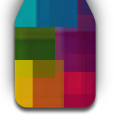
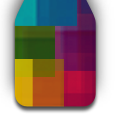
Updated time section

diff --git a/Soclivity/StyledPullableView.m b/Soclivity/StyledPullableView.m
@@ -64,7 +64,7 @@
         SOC=[SoclivityManager SharedInstance];                     
         filterPaneView=[[UIView alloc]initWithFrame:CGRectMake(0, 0, 640, 402)];
         filterPaneView.backgroundColor=[SoclivityUtilities returnTextFontColor:7];
-        self.homeSearchBar = [[[UISearchBar alloc] initWithFrame:CGRectMake(0, 40,320, 44)] autorelease];
+        self.homeSearchBar = [[[UISearchBar alloc] initWithFrame:CGRectMake(0, 40, 320, 44)] autorelease];
         self.homeSearchBar.delegate = self;
         self.homeSearchBar.showsCancelButton =NO;
         self.homeSearchBar.autocorrectionType = UITextAutocorrectionTypeNo;
@@ -323,7 +323,7 @@
         [datesVerticalDividerImageView2 release];
         
         UIButton *pickADayButton = [[UIButton buttonWithType:UIButtonTypeCustom] retain];
-        pickADayButton.frame = CGRectMake(214,238,100,40);
+        pickADayButton.frame = CGRectMake(214,238,100,45);
         pickADayButton.tag=kPickADay;
         [pickADayButton addTarget:self action:@selector(activityButtonPressed:) forControlEvents:UIControlEventTouchUpInside];
         [filterPaneView addSubview:pickADayButton];
@@ -347,47 +347,46 @@
         [filterPaneView addSubview:pickADayLabel];
         [pickADayLabel release];
         
-        
+        // Time selection section
         UIImageView *clockIconImageView=[[UIImageView alloc]initWithImage:[UIImage imageNamed:@"S04.1_clock.png"]];
-        clockIconImageView.frame=CGRectMake(10, 290, 24, 23);
+        clockIconImageView.frame=CGRectMake(10, 302, 24, 23);
         [filterPaneView addSubview:clockIconImageView];
         [clockIconImageView release];
         
         UIImageView *horizontalDividerImageView2=[[UIImageView alloc]initWithImage:[UIImage imageNamed:@"S04.1_horizontalDivider.png"]];
-        horizontalDividerImageView2.frame=CGRectMake(44, 300, 269, 2);
+        horizontalDividerImageView2.frame=CGRectMake(44, 309, 269, 1);
         [filterPaneView addSubview:horizontalDividerImageView2];
         [horizontalDividerImageView2 release];
         
-        
         UIButton *morningButton = [[UIButton buttonWithType:UIButtonTypeCustom] retain];
-        morningButton.frame =CGRectMake(45,325,90,41);
+        morningButton.frame =CGRectMake(12,330,100,55);
         morningButton.tag=kMorningButton;
         [morningButton addTarget:self action:@selector(activityButtonPressed:) forControlEvents:UIControlEventTouchUpInside];
         [filterPaneView addSubview:morningButton];
         
         UIImageView *sunriseImageView=[[UIImageView alloc]initWithImage:[UIImage imageNamed:@"S04.1_sunriseSelected.png"]];
-        sunriseImageView.frame=CGRectMake(60, 325, 15,9);
+        sunriseImageView.frame=CGRectMake(55, 330, 15,9);
         sunriseImageView.tag=kSunriseImage;
         [filterPaneView addSubview:sunriseImageView];
         [sunriseImageView release];
         
-        CGRect morningLabelRect=CGRectMake(45,345,90,15);
+        CGRect morningLabelRect=CGRectMake(12,345,100,15);
         UILabel *morningLabel=[[UILabel alloc] initWithFrame:morningLabelRect];
-        morningLabel.textAlignment=UITextAlignmentLeft;
+        morningLabel.textAlignment=UITextAlignmentCenter;
         morningLabel.text=[NSString stringWithFormat:@"Morning"];
         morningLabel.font=[UIFont fontWithName:@"Helvetica-Condensed-Bold" size:15];
-        morningLabel.textColor=[SoclivityUtilities returnTextFontColor:1];
+        morningLabel.textColor=[SoclivityUtilities returnTextFontColor:5];
         morningLabel.tag=kMorningText;
         morningLabel.backgroundColor=[UIColor clearColor];
         [filterPaneView addSubview:morningLabel];
         [morningLabel release];
         
-        CGRect Am12_Am11_LabelRect=CGRectMake(35,365,90,15);
+        CGRect Am12_Am11_LabelRect=CGRectMake(12,365,100,15);
         UILabel *Am12_Am11Label=[[UILabel alloc] initWithFrame:Am12_Am11_LabelRect];
-        Am12_Am11Label.textAlignment=UITextAlignmentLeft;
+        Am12_Am11Label.textAlignment=UITextAlignmentCenter;
         Am12_Am11Label.text=[NSString stringWithFormat:@"12am - 11am"];
         Am12_Am11Label.font=[UIFont fontWithName:@"Helvetica-Condensed" size:15];
-        Am12_Am11Label.textColor=[SoclivityUtilities returnTextFontColor:1];
+        Am12_Am11Label.textColor=[SoclivityUtilities returnTextFontColor:5];
         Am12_Am11Label.tag=kAm12_Am11;
         Am12_Am11Label.backgroundColor=[UIColor clearColor];
         [filterPaneView addSubview:Am12_Am11Label];
@@ -395,39 +394,39 @@
         
         
         UIImageView *timeVerticalDividerImageView1=[[UIImageView alloc]initWithImage:[UIImage imageNamed:@"S04.1_timeVerticalDivider.png"]];
-        timeVerticalDividerImageView1.frame=CGRectMake(120, 335, 2, 41);
+        timeVerticalDividerImageView1.frame=CGRectMake(112, 333, 1, 41);
         [filterPaneView addSubview:timeVerticalDividerImageView1];
         [timeVerticalDividerImageView1 release];
 
         UIButton *afternoonButton = [[UIButton buttonWithType:UIButtonTypeCustom] retain];
-        afternoonButton.frame =CGRectMake(140,325,90,53);
+        afternoonButton.frame =CGRectMake(113,330,100,55);
         afternoonButton.tag=kAfternoonButton;
         [afternoonButton addTarget:self action:@selector(activityButtonPressed:) forControlEvents:UIControlEventTouchUpInside];
         [filterPaneView addSubview:afternoonButton];
         
         UIImageView *sunSelectedImageView=[[UIImageView alloc]initWithImage:[UIImage imageNamed:@"S04.1_sunSelected.png"]];
-        sunSelectedImageView.frame=CGRectMake(155, 325, 16, 15);
+        sunSelectedImageView.frame=CGRectMake(155, 324, 16, 15);
         sunSelectedImageView.tag=kSunSelectedImage;
         [filterPaneView addSubview:sunSelectedImageView];
         [sunSelectedImageView release];
         
-        CGRect afternoonLabelRect=CGRectMake(140,345,90,15);
+        CGRect afternoonLabelRect=CGRectMake(113,345,100,15);
         UILabel *afternoonLabel=[[UILabel alloc] initWithFrame:afternoonLabelRect];
-        afternoonLabel.textAlignment=UITextAlignmentLeft;
+        afternoonLabel.textAlignment=UITextAlignmentCenter;
         afternoonLabel.text=[NSString stringWithFormat:@"Afternoon"];
         afternoonLabel.font=[UIFont fontWithName:@"Helvetica-Condensed-Bold" size:15];
-        afternoonLabel.textColor=[SoclivityUtilities returnTextFontColor:1];
+        afternoonLabel.textColor=[SoclivityUtilities returnTextFontColor:5];
         afternoonLabel.tag=kAfternoonText;
         afternoonLabel.backgroundColor=[UIColor clearColor];
         [filterPaneView addSubview:afternoonLabel];
         [afternoonLabel release];
         
-        CGRect Pm12_Pm6_LabelRect=CGRectMake(130,365,90,15);
+        CGRect Pm12_Pm6_LabelRect=CGRectMake(113,365,100,15);
         UILabel *Pm12_Pm6_Label=[[UILabel alloc] initWithFrame:Pm12_Pm6_LabelRect];
-        Pm12_Pm6_Label.textAlignment=UITextAlignmentLeft;
+        Pm12_Pm6_Label.textAlignment=UITextAlignmentCenter;
         Pm12_Pm6_Label.text=[NSString stringWithFormat:@"12pm - 6pm"];
         Pm12_Pm6_Label.font=[UIFont fontWithName:@"Helvetica-Condensed" size:15];
-        Pm12_Pm6_Label.textColor=[SoclivityUtilities returnTextFontColor:1];
+        Pm12_Pm6_Label.textColor=[SoclivityUtilities returnTextFontColor:5];
         Pm12_Pm6_Label.tag=kPm12_Pm6;
         Pm12_Pm6_Label.backgroundColor=[UIColor clearColor];
         [filterPaneView addSubview:Pm12_Pm6_Label];
@@ -435,36 +434,36 @@
         
 #endif        
         UIImageView *timeVerticalDividerImageView2=[[UIImageView alloc]initWithImage:[UIImage imageNamed:@"S04.1_timeVerticalDivider.png"]];
-        timeVerticalDividerImageView2.frame=CGRectMake(220, 335, 2, 41);
+        timeVerticalDividerImageView2.frame=CGRectMake(213, 333, 1, 41);
         [filterPaneView addSubview:timeVerticalDividerImageView2];
         [timeVerticalDividerImageView2 release];
         
         UIButton *eveningButton = [[UIButton buttonWithType:UIButtonTypeCustom] retain];
-        eveningButton.frame =CGRectMake(240,325,90,53);
+        eveningButton.frame =CGRectMake(214,330,100,55);
         eveningButton.tag=kEveningButton;
         [eveningButton addTarget:self action:@selector(activityButtonPressed:) forControlEvents:UIControlEventTouchUpInside];
         [filterPaneView addSubview:eveningButton];
         
         UIImageView *moonSelectedImageView=[[UIImageView alloc]initWithImage:[UIImage imageNamed:@"S04.1_moonSelected.png"]];
-        moonSelectedImageView.frame=CGRectMake(255, 325, 13, 15);
+        moonSelectedImageView.frame=CGRectMake(255, 324, 13, 15);
         moonSelectedImageView.tag=kMoonSelectedImage;
         [filterPaneView addSubview:moonSelectedImageView];
         [moonSelectedImageView release];
         
-        CGRect eveningLabelRect=CGRectMake(245,345,90,15);
+        CGRect eveningLabelRect=CGRectMake(214,345,100,15);
         UILabel *eveningLabel=[[UILabel alloc] initWithFrame:eveningLabelRect];
-        eveningLabel.textAlignment=UITextAlignmentLeft;
+        eveningLabel.textAlignment=UITextAlignmentCenter;
         eveningLabel.text=[NSString stringWithFormat:@"Evening"];
         eveningLabel.font=[UIFont fontWithName:@"Helvetica-Condensed-Bold" size:15];
-        eveningLabel.textColor=[SoclivityUtilities returnTextFontColor:1];
+        eveningLabel.textColor=[SoclivityUtilities returnTextFontColor:5];
         eveningLabel.tag=kEveningText;
         eveningLabel.backgroundColor=[UIColor clearColor];
         [filterPaneView addSubview:eveningLabel];
         [eveningLabel release];
         
-        CGRect Pm7_Pm11_LabelRect=CGRectMake(230,365,90,15);
+        CGRect Pm7_Pm11_LabelRect=CGRectMake(214,365,100,15);
         UILabel *Pm7_Pm11_Label=[[UILabel alloc] initWithFrame:Pm7_Pm11_LabelRect];
-        Pm7_Pm11_Label.textAlignment=UITextAlignmentLeft;
+        Pm7_Pm11_Label.textAlignment=UITextAlignmentCenter;
         Pm7_Pm11_Label.text=[NSString stringWithFormat:@"7pm - 11pm"];
         Pm7_Pm11_Label.font=[UIFont fontWithName:@"Helvetica-Condensed" size:15];
         Pm7_Pm11_Label.textColor=[SoclivityUtilities returnTextFontColor:1];
@@ -472,12 +471,6 @@
         Pm7_Pm11_Label.backgroundColor=[UIColor clearColor];
         [filterPaneView addSubview:Pm7_Pm11_Label];
         [Pm7_Pm11_Label release];
-
-
-
-
-        
-
         
 #if 0        
                 
@@ -552,7 +545,7 @@
       
 #endif        
         UIButton *searchHandleButton = [[UIButton buttonWithType:UIButtonTypeCustom] retain];
-        searchHandleButton.frame = CGRectMake(5, 398.0, 58.0, 58.0);
+        searchHandleButton.frame = CGRectMake(5, 397, 58.0, 57.0);
         [searchHandleButton setImage:[UIImage imageNamed:@"S04_bookmark.png"] forState:UIControlStateNormal];
         [searchHandleButton addTarget:self action:@selector(pushTodetailActivity:) forControlEvents:UIControlEventTouchUpInside];
         [self addSubview:searchHandleButton];
@@ -856,7 +849,7 @@
         if (cancelButton){
             NSLog(@"cancelButton");
             [cancelButton setBackgroundImage:[UIImage imageNamed:@"S04.1_button.png"] forState:UIControlStateNormal];
-            [cancelButton setBackgroundImage:[UIImage imageNamed:@"S04.1_button.png"] forState:UIControlStateHighlighted];
+            [cancelButton setBackgroundImage:[UIImage imageNamed:@"S04.1_buttonSelected.png"] forState:UIControlStateHighlighted];
             }   
         }
     

diff --git a/Soclivity/PullableView.m b/Soclivity/PullableView.m
@@ -31,7 +31,7 @@
         toggleOnTap = YES;
         
         // Creates the handle view. Subclasses should resize, reposition and style this view
-        handleView = [[UIView alloc] initWithFrame:CGRectMake(0, frame.size.height - 40, 320, 40)];
+        handleView = [[UIView alloc] initWithFrame:CGRectMake(0, frame.size.height-40, 320, 40)];
         [self addSubview:handleView];
         [handleView release];
         
